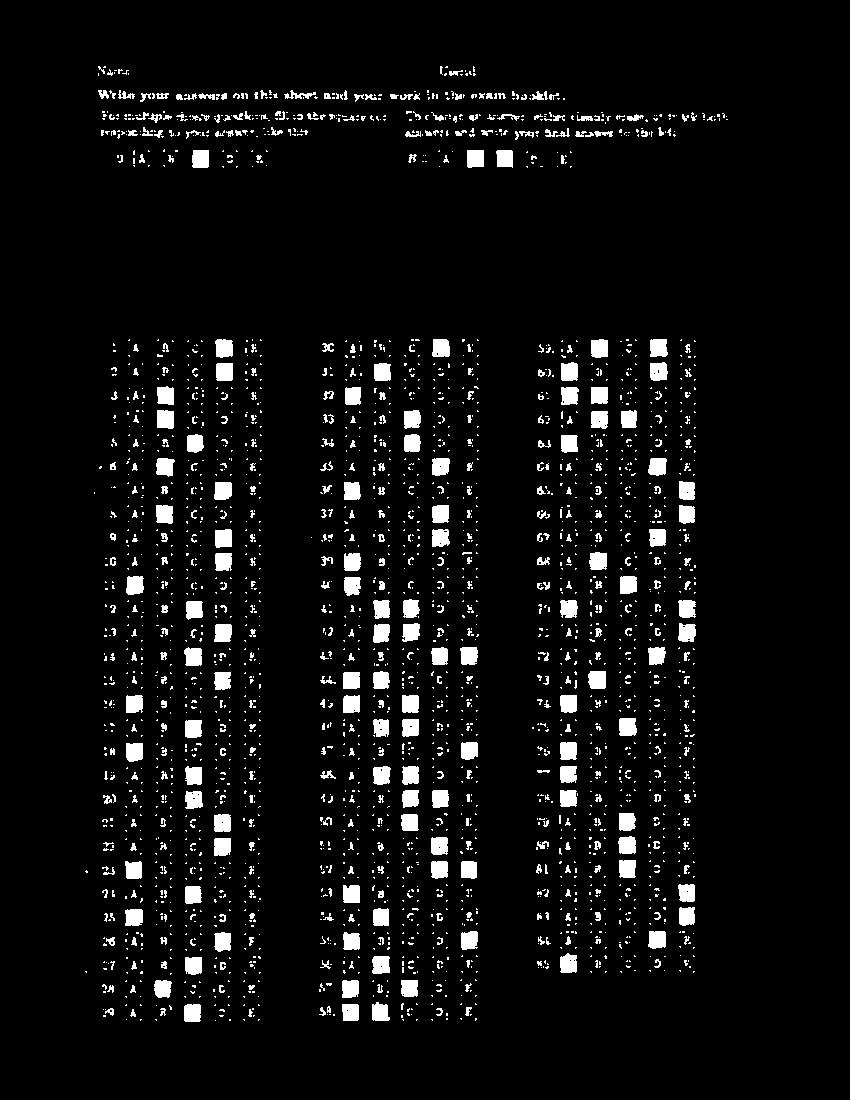
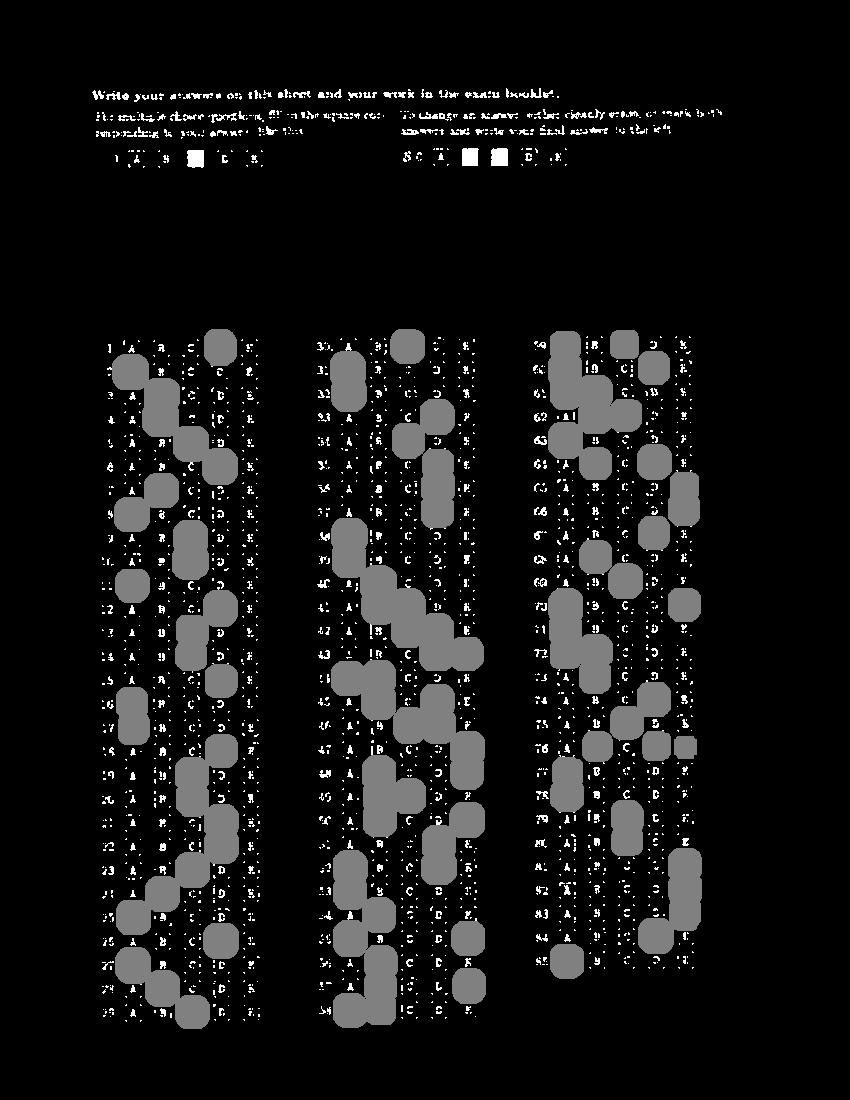
identifying locations

diff --git a/grade2.py b/grade2.py
@@ -30,6 +30,7 @@ from pprint import pprint
 import numpy as np
 from timeit import timeit
 import math
+import pandas as pd
 
 
 def add_edges_dict(px,filter_matrix, width, height):
@@ -80,9 +81,29 @@ def stark_difference(px_load, width, height):
         for y in range(height):
             px_load[x,y] = 255 if px_load[x,y] < 160 else 0
             
-def rotate_angle(px,width, height):
-    scale = 0
-    return scale
+def rotate_angle(rp1,rp2,cp1,cp2):
+    rp_ang = math.degrees(math.atan((rp2[1] - rp1[1])/(rp2[0] - rp1[0])))
+    cp_ang = math.degrees(math.atan((cp2[1] - cp1[1])/(cp2[0] - cp1[0])))
+    return rp_ang-cp_ang
+    
+def scale(rp1,rp2,cp1,cp2):
+    area_cp = (cp2[1] - cp1[1])  * (cp2[0] - cp1[0])
+    area_rp = (rp2[1] - rp1[1])  * (rp2[0] - rp1[0])
+    return (area_cp / area_rp)**0.5    
+    
+def ref_points(px,width,height,location):
+    # find the location of reference points
+    # upper left postion, location = 0, or bottom right, location = -1
+    # 255 used to make sure mreference points to accidently noise
+    for y in range(height*(-1*location)+location,height+(location*height)+location,1+2*location): # length
+        row_total = sum([px[x,y] for x in range(width)])
+        if row_total > 255*5:
+            break
+    for z in range(width*(-1*location)+location,width+(location*width)+location,1+2*location): # width
+        column_total = sum([px[z,x] for x in range(height*(-1*location)+location,int(height/2)+location,1+2*location)])
+        if column_total > 255*5:
+            break
+    return z,y
     
 def grade(form, output_im, output_file):
     print("Importing "+form+"...")
@@ -106,87 +127,70 @@ def grade(form, output_im, output_file):
     im2 = convolute(px1,box_blur,width,height)
     px2 = im2.load()
 
-    # Starken the difference
+    # Starken the difference, makes it easier to work with 0s instead of 255s
     stark_difference(px2,width,height)
 
     # find angle to rotate image
-    # use 255*5 as a threshold to allow for a little bit of noise
-    
-    # These reference point are from blank_image.jpg. Tthey coorspond to ideal orientation
-    # They were found using the algorithm below, and was then used to determine
-    # the orientation of any scanned document
+    # first, get reference points from blank_image.jpg. They coorspond to ideal
+    # orientation They were found using the threshold function onblank_image.jpg
+    # and then hard-coded, since not sure siystem we will be using
+    # then,we look for the same points in the any scanned document.
     rp1 = (92,68)
     rp2 = (711,1039)
     
-    area_rp = (rp2[1] - rp1[1])  * (rp2[0] - rp1[0])
+    # find reference points on original
+    cp1 = ref_points(px2,width,height,0)
+    cp2 = ref_points(px2,width,height,-1)
 
-    def threshold(px,width,height,location):
-        print(height*(-1*location)+location,height+(location*height)+location,1+2*location)
-        for y in range(height*(-1*location)+location,height+(location*height)+location,1+2*location): # length
-            row_total = sum([px[x,y] for x in range(width)])
-            if row_total > 255*5:
-                break
-        print(width*(-1*location)+location,width+(location*width)+location,1+2*location)
-        print("x-range: ",height*(-1*location)+location,int(height/2)+location,1+2*location)
-        for z in range(width*(-1*location)+location,width+(location*width)+location,1+2*location): # width
-            column_total = sum([px[z,x] for x in range(height*(-1*location)+location,int(height/2)+location,1+2*location)])
-            if column_total > 255*5:
-                break
-        return z,y
-        
+    # finally, rotate the image
+    im3 = im2.rotate(rotate_angle(rp1,rp2,cp1,cp2))
+    px3 = im3.load()
     
-    # find reference point 1
-    for y in range(0,height): # length
-        row_total = sum([px2[x,y] for x in range(width)])
-        if row_total > 255*5:
-            break
-    for z in range(0,width):
-        column_total = sum([px2[z,x] for x in range(0,400)])
-        if column_total > 255*5:
-            break
-    cp1 = (z,y)
-    cp1_alt = threshold(px2,width,height,0)
-    cp2_alt = threshold(px2,width,height,-1)
-
+    # Now, scan for incidents
+    # Since we know that boxes are 32 pixels wide by 32 pixels, we'll scan for
+    # for boxes with the most lit up pixels
+    # then eliminate the ones too close to others
+    # then, sort by density, so we can determine the filled out onces
+    # using a threshold of at least 40% are filled in
+    # and then by location, to determine the location of them, and if there is
+    #something to left of the number
+    filled_in = int(16 * 16 * 0.40)
+    something_there = 3
+    filled_in_dict = []
+    fin_df = pd.DataFrame(columns = ['box_total','x','y'])
+    print(fin_df)
+    something_there_dict = []
     
-    print("Refer 1 Point:",rp1[0],rp1[1])
-    print("Current Point:",cp1[0],cp1[1])
-    print("Current Point_alt:",cp1_alt)
+    range_16 = range(16)
+    for x in range(width-16):
+        for y in range(int(height/4), height-16):  # ignoring the first chunk of text
+            box_total = sum([1 for i in range(16) for j in range(16) if px3[x+i,y+j] == 255])
+            if box_total >= filled_in:
+                filled_in_dict.append(([box_total,x,y]))   
+                # if len(filled_in_dict) > 0:
+                #     if x-16 < filled_in_dict[-1][1] and y-16 < filled_in_dict[-1][2]:
+                #         if box_total > filled_in_dict[-1][0]:
+                #             filled_in_dict[-1] = [box_total,x,y]
+                #     else:
+                #         filled_in_dict.append(([box_total,x,y]))   
+                # else:
+                #     filled_in_dict.append(([box_total,x,y]))
 
-    # find reference point 2
-    for y in range(height-1,-1,-1): # length
-        row_total = sum([px2[x,y] for x in range(width)])
-        if row_total > 255*5:
-            break
-    for z in range(width-1,-1,-1):
-        column_total = sum([px2[z,x] for x in range(height-1,height-401,-1)])
-        if column_total > 255*5:
-            break
-        
-    cp2 = (z,y)
+            elif box_total >= something_there:
+                something_there_dict.append(([box_total,x,y]))
 
-    area_cp = (cp2[1] - cp1[1])  * (cp2[0] - cp1[0])
+    print(len(filled_in_dict))
+    print(filled_in_dict[0:5])
+    print(len(something_there_dict))                
+    print(something_there_dict[0:5])                        
 
-    print("Refer 2 Point:",rp2[0],rp2[1])
-    print("Current Point:",z,y)
-    print("Current Point_alt:",cp2_alt)
-
-
-    print("Area RP:", area_rp)
-    print("Area CP:", area_cp)
-
-    print(area_cp / area_rp)
-    scale = (area_cp / area_rp)**0.5
-    print(scale)
-    
-    rp_ang = math.degrees(math.atan((rp2[1] - rp1[1])/(rp2[0] - rp1[0])))
-    cp_ang = math.degrees(math.atan((cp2[1] - cp1[1])/(cp2[0] - cp1[0])))
-    print(rp_ang, cp_ang)
-
-    im3 = im2.rotate(rp_ang-cp_ang) 
+    for each in filled_in_dict:
+        for x in range(16):
+            for y in range(16):
+                px3[each[1]+x,each[2]+y] = 128
             
     # Final output image
-    im3.save("r-"+output_im)
+    im3.save(form[0:4]+output_im)
 
     print("Hooray! "+form + " was successfully graded.")
     print("Output files '"+output_file+"' and '"+output_im+"' succcessfuly graded.")
